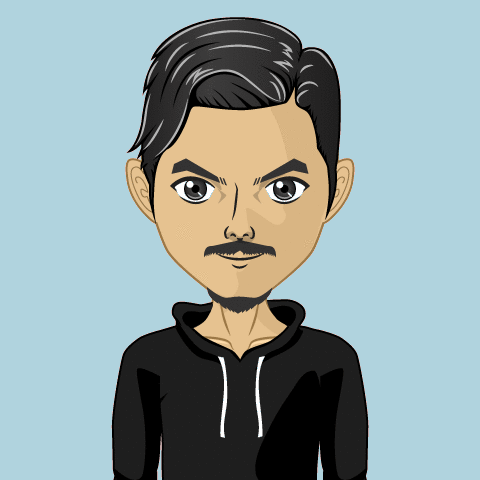
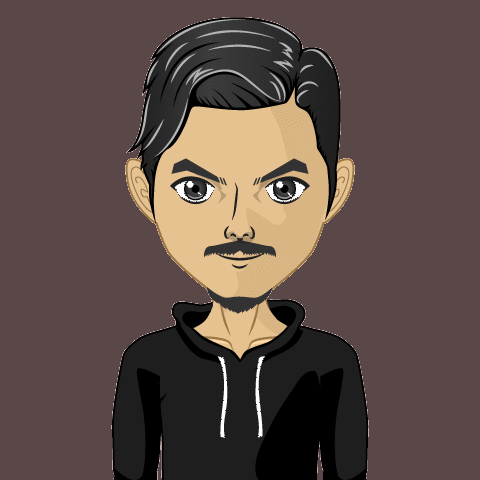
updating light color scheme

diff --git a/src/pages/home/BottomSection.tsx b/src/pages/home/BottomSection.tsx
@@ -85,30 +85,30 @@ const StyledFaHome = styled(FaHome)`
 `
 const CircularBackground = styled.div`
   border-radius: 50%;
-  background-color: ${({ theme }) => theme.color.secondary1};
+  background-color: ${({ theme }) => theme.color.primary2};
 `
 const StyledP = styled.p`
-  color: ${({ theme }) => theme.color["primary3"]};
+  color: ${({ theme }) => theme.color.secondary1};
   font-weight: 600;
 `
 const HobbyTitle = styled.p`
-  color: ${({ theme }) => theme.color["primary3"]};
+  color: ${({ theme }) => theme.color.secondary1};
   font-weight: 600;
   margin: 0;
   text-align: center;
 `
 const NameLabel = styled.h2`
-  color: ${({ theme }) => theme.color.accent3};
+  color: ${({ theme }) => theme.color.accent1};
   margin-right: ${({ theme }) => theme.edgeSize.medium};
 `
 const Name = styled.h2`
-  color: ${({ theme }) => theme.color["primary3"]};
+  color: ${({ theme }) => theme.color.secondary1};
 `
 const ContactDetail = styled.p`
   font-size: 1.4rem;
   margin: 0;
   font-weight: 600;
-  color: ${({ theme }) => theme.color["primary3"]};
+  color: ${({ theme }) => theme.color.secondary1};
   margin-left: ${({ theme }) => theme.edgeSize.large};
 `
 
@@ -218,7 +218,7 @@ const getHobbies = (TEXT: any) => [
 const BottomSection = () => {
   const { homepage: TEXT } = useText()
   return (
-    <Box bgColor="primary" pad="xlarge">
+    <Box bgColor="primary3" pad="xlarge">
       <SectionHeading text={TEXT.SKILLS_SECTION_HEADING} />
       <Box direction="row" justify="space-evenly" wrap="wrap">
         {getSkills(TEXT).map((skill) => (
@@ -255,7 +255,7 @@ const BottomSection = () => {
             <Box direction="row" margin={{ vertical: "large" }}>
               <Box
                 align="center"
-                bgColor="accent1"
+                bgColor="secondary1"
                 border={{ size: "small" }}
                 height="large"
                 justify="center"
@@ -271,7 +271,7 @@ const BottomSection = () => {
             <Box direction="row" margin={{ vertical: "large" }}>
               <Box
                 align="center"
-                bgColor="accent3"
+                bgColor="secondary1"
                 border={{ size: "small" }}
                 height="large"
                 justify="center"
@@ -287,7 +287,7 @@ const BottomSection = () => {
             <Box direction="row" margin={{ vertical: "large" }}>
               <Box
                 align="center"
-                bgColor="accent2"
+                bgColor="secondary1"
                 border={{ size: "small" }}
                 height="large"
                 justify="center"

diff --git a/src/pages/home/styles.ts b/src/pages/home/styles.ts
@@ -2,16 +2,16 @@ import styled from "styled-components"
 import { FaGlobe, FaGithub, FaLinkedin, FaHeart } from "react-icons/fa"
 
 export const StyledFaGlobe = styled(FaGlobe)`
-  color: ${({ theme }) => theme.color["primary3"]};
+  color: ${({ theme }) => theme.color.primary};
 `
 export const StyledGithub = styled(FaGithub)`
-  color: ${({ theme }) => theme.color["primary3"]};
+  color: ${({ theme }) => theme.color.primary};
 `
 export const StyledLinkedIn = styled(FaLinkedin)`
-  color: ${({ theme }) => theme.color["primary3"]};
+  color: ${({ theme }) => theme.color.primary};
 `
 export const StyledHeart = styled(FaHeart)`
-  color: ${({ theme }) => theme.color.primary2};
+  color: ${({ theme }) => theme.color.primary3};
 `
 export const StyledLink = styled.a<{
   color: string
@@ -27,7 +27,7 @@ export const StyledLinkLabel = styled.h3`
     `0 ${theme.edgeSize.xlarge} 0 ${theme.edgeSize.medium}`};
 `
 export const StyledHi = styled.h1`
-  color: ${({ theme }) => theme.color.primary2};
+  color: ${({ theme }) => theme.color.primary3};
   font-size: 56px;
   transform: rotate(-45deg);
 `
@@ -36,7 +36,7 @@ export const StyledIm = styled.h1`
   font-size: 56px;
 `
 export const StyledName = styled.h1`
-  color: ${({ theme }) => theme.color.primary3};
+  color: ${({ theme }) => theme.color.accent1};
   text-align: center;
 `
 export const StyledAge = styled.h2`
@@ -49,16 +49,16 @@ export const StyledImage = styled.img`
   background-color: ${({ theme }) => theme.color.primary};
 `
 export const StyledIntoHello = styled.h3`
-  color: ${({ theme }) => theme.color.secondary2};
+  color: ${({ theme }) => theme.color.primary3};
 `
 export const StyledIntoHeading = styled.h3`
-  color: ${({ theme }) => theme.color.primary3};
+  color: ${({ theme }) => theme.color.accent1};
 `
 export const StyledIntoDesc = styled.h3`
-  color: ${({ theme }) => theme.color.secondary2};
+  color: ${({ theme }) => theme.color.primary3};
 `
 export const StyledDeveloper = styled.h1`
-  color: ${({ theme }) => theme.color.primary3};
+  color: ${({ theme }) => theme.color.secondary1};
   margin-top: ${({ theme }) => theme.edgeSize.large};
   text-align: center;
   font-size: 48px;

diff --git a/src/pages/home/index.tsx b/src/pages/home/index.tsx
@@ -25,7 +25,7 @@ const Home = () => {
       <TopSection />
       <Box
         align="center"
-        bgColor="primary3"
+        bgColor="primary"
         direction="row"
         height="large"
         justify="center"
@@ -34,34 +34,34 @@ const Home = () => {
         textTransform="uppercase"
       >
         <StyledLink
-          color="accent1"
+          color="primary3"
           href="https://bit.ly/mono-cv"
           rel="noopener noreferrer"
           target="_blank"
         >
-          <SpeechBubble bgColor="accent1" pad="medium" position="right">
+          <SpeechBubble bgColor="primary3" pad="medium" position="right">
             <StyledFaGlobe size="1.5em" />
           </SpeechBubble>
           <StyledLinkLabel>bit.ly/mono-cv</StyledLinkLabel>
         </StyledLink>
         <StyledLink
-          color="accent1"
+          color="primary3"
           href="https://bit.ly/mono-in"
           rel="noopener noreferrer"
           target="_blank"
         >
-          <SpeechBubble bgColor="accent1" pad="medium" position="right">
+          <SpeechBubble bgColor="primary3" pad="medium" position="right">
             <StyledLinkedIn size="1.5em" />
           </SpeechBubble>
           <StyledLinkLabel>/mannvender</StyledLinkLabel>
         </StyledLink>
         <StyledLink
-          color="accent1"
+          color="primary3"
           href="https://bit.ly/mono-git"
           rel="noopener noreferrer"
           target="_blank"
         >
-          <SpeechBubble bgColor="accent1" pad="medium" position="right">
+          <SpeechBubble bgColor="primary3" pad="medium" position="right">
             <StyledGithub size="1.5em" />
           </SpeechBubble>
           <StyledLinkLabel>/mannvender</StyledLinkLabel>

diff --git a/src/components/Timeline/index.tsx b/src/components/Timeline/index.tsx
@@ -20,7 +20,7 @@ const Line = styled.div<{}>`
   display: flex;
   flex-grow: 1;
   height: ${({ theme }) => theme.size.small};
-  background-color: ${({ theme }) => theme.color.secondary2};
+  background-color: ${({ theme }) => theme.color.primary2};
   border-radius: ${({ theme }) => theme.edgeSize.large};
 `
 const DottedLine = styled.div<{
@@ -32,7 +32,7 @@ const DottedLine = styled.div<{
   height: ${({ theme }) => theme.size.large};
   left: ${({ left }) => left};
   top: ${({ top }) => top};
-  border: ${({ theme }) => `4px dashed ${theme.color.primary3}`};
+  border: ${({ theme }) => `4px dashed ${theme.color.primary2}`};
   transform: translateX(-${({ index }) => index * 100}%);
 `
 const Point = styled.div<{
@@ -62,20 +62,20 @@ const StyledFaBookOpen = styled(FaBookOpen)`
 const Title = styled.p`
   font-size: 0.9rem;
   font-weight: 600;
-  color: ${({ theme }) => theme.color.primary3};
+  color: ${({ theme }) => theme.color.secondary1};
   margin: 0;
 `
 const Description = styled.p`
   font-size: 0.8rem;
   font-weight: 600;
   font-style: italic;
-  color: ${({ theme }) => theme.color.accent3};
+  color: ${({ theme }) => theme.color.accent1};
   margin: 0;
 `
 const Time = styled.p`
   font-size: 0.8rem;
   font-weight: 600;
-  color: ${({ theme }) => theme.color.primary3};
+  color: ${({ theme }) => theme.color.secondary1};
   margin: 0;
 `
 

diff --git a/src/components/SectionHeading/index.tsx b/src/components/SectionHeading/index.tsx
@@ -13,13 +13,13 @@ const UnderlinedDiv = styled.div<{
   display: flex;
   flex-grow: ${({ grow }) => grow};
   border-bottom: ${({ theme }) =>
-    `${theme.edgeSize.small} solid ${theme.color.primary3}`};
+    `${theme.edgeSize.small} solid ${theme.color.secondary1}`};
 `
 const StyledText = styled.h2`
   border-bottom: ${({ theme }) =>
-    `${theme.edgeSize.small} solid ${theme.color.primary3}`};
+    `${theme.edgeSize.small} solid ${theme.color.secondary1}`};
   margin-right: ${({ theme }) => theme.edgeSize.large};
-  color: ${({ theme }) => theme.color.primary3};
+  color: ${({ theme }) => theme.color.secondary1};
   text-transform: uppercase;
 `
 
@@ -27,7 +27,11 @@ interface Props {
   text?: string
   color?: string
 }
-const SectionHeading = ({ color = "primary3", text = "", ...rest }: Props) => {
+const SectionHeading = ({
+  color = "secondary1",
+  text = "",
+  ...rest
+}: Props) => {
   return (
     <StyledDiv textColor={color} {...rest}>
       <StyledText>{text}</StyledText>

diff --git a/src/theme.ts b/src/theme.ts
@@ -1,14 +1,12 @@
 const theme = {
   color: {
     light: {
-      primary: "#fddfb9", //primary1
-      primary2: "#fff", //primary2
-      primary3: "#7a432e", //primary3
-      secondary1: "#fbc773", //secondary1
-      secondary2: "#c67645", //secondary2
-      accent1: "#b0d3de", //accent1
-      accent2: "#add781", //accent2
-      accent3: "#dd8e3f", //accent-3
+      primary: "#14031A", //primary1
+      primary2: "#949494", //primary1
+      primary3: "#fff", //primary3
+      secondary1: "#5A4848", //secondary1
+      secondary2: "#78BB61", //secondary2
+      accent1: "#FF7521", //accent1
       heartRed: "red",
     },
     dark: {
@@ -17,9 +15,7 @@ const theme = {
       primary3: "#fddfb9",
       secondary1: "#c67645",
       secondary2: "#fbc773",
-      accent1: "#dd8e3f",
-      accent2: "#b0d3de",
-      accent3: "#add781",
+      accent1: "#add781",
       heartRed: "red",
     },
   },

diff --git a/src/components/Header/index.tsx b/src/components/Header/index.tsx
@@ -9,13 +9,13 @@ import { Store as ThemeStore, MODE } from "context/theme/store"
 import { Store as LangStore, LANG } from "context/lang/store"
 
 const StyledFaMoon = styled(FaMoon)`
-  color: ${({ theme }) => theme.color.primary2};
+  color: ${({ theme }) => theme.color.primary3};
 `
 const StyledFaSun = styled(FaSun)`
-  color: ${({ theme }) => theme.color.primary2};
+  color: ${({ theme }) => theme.color.primary3};
 `
 const StyledLanguageLable = styled.h2`
-  color: ${({ theme }) => theme.color.primary2};
+  color: ${({ theme }) => theme.color.primary3};
 `
 
 const Header = () => {
@@ -33,7 +33,7 @@ const Header = () => {
       justify="flex-end"
       direction="row"
       align="center"
-      bgColor="primary3"
+      bgColor="primary"
       pad="xlarge"
     >
       <Box onClick={handleColorSchemeClick} style={{ cursor: "pointer" }}>

diff --git a/src/components/ProgressBar/index.tsx b/src/components/ProgressBar/index.tsx
@@ -18,7 +18,7 @@ const ProgressBar = ({ progress = "0", ...rest }: Props) => {
       width="100%"
       {...rest}
     >
-      <Box height="100%" radius="large" width={progress} bgColor="primary3" />
+      <Box height="100%" radius="large" width={progress} bgColor="primary2" />
     </Box>
   )
 }

diff --git a/src/components/Footer/index.jsx b/src/components/Footer/index.jsx
@@ -11,7 +11,7 @@ const StyledFaHeart = styled(FaHeart)`
 `
 const StyledMadeWith = styled.p`
   margin: 0;
-  color: ${({ theme }) => theme.color.primary2};
+  color: ${({ theme }) => theme.color.secondary1};
   margin-right: ${({ theme }) => theme.edgeSize.medium};
   font-size: 0.8em;
 `

diff --git a/src/pages/home/TopSection.tsx b/src/pages/home/TopSection.tsx
@@ -33,7 +33,7 @@ const TopSection = () => {
   }
 
   return (
-    <Box bgColor="primary2" direction="row" pad="xlarge">
+    <Box bgColor="primary3" direction="row" pad="xlarge">
       <Box basis="38%">
         <Box
           align="flex-end"
